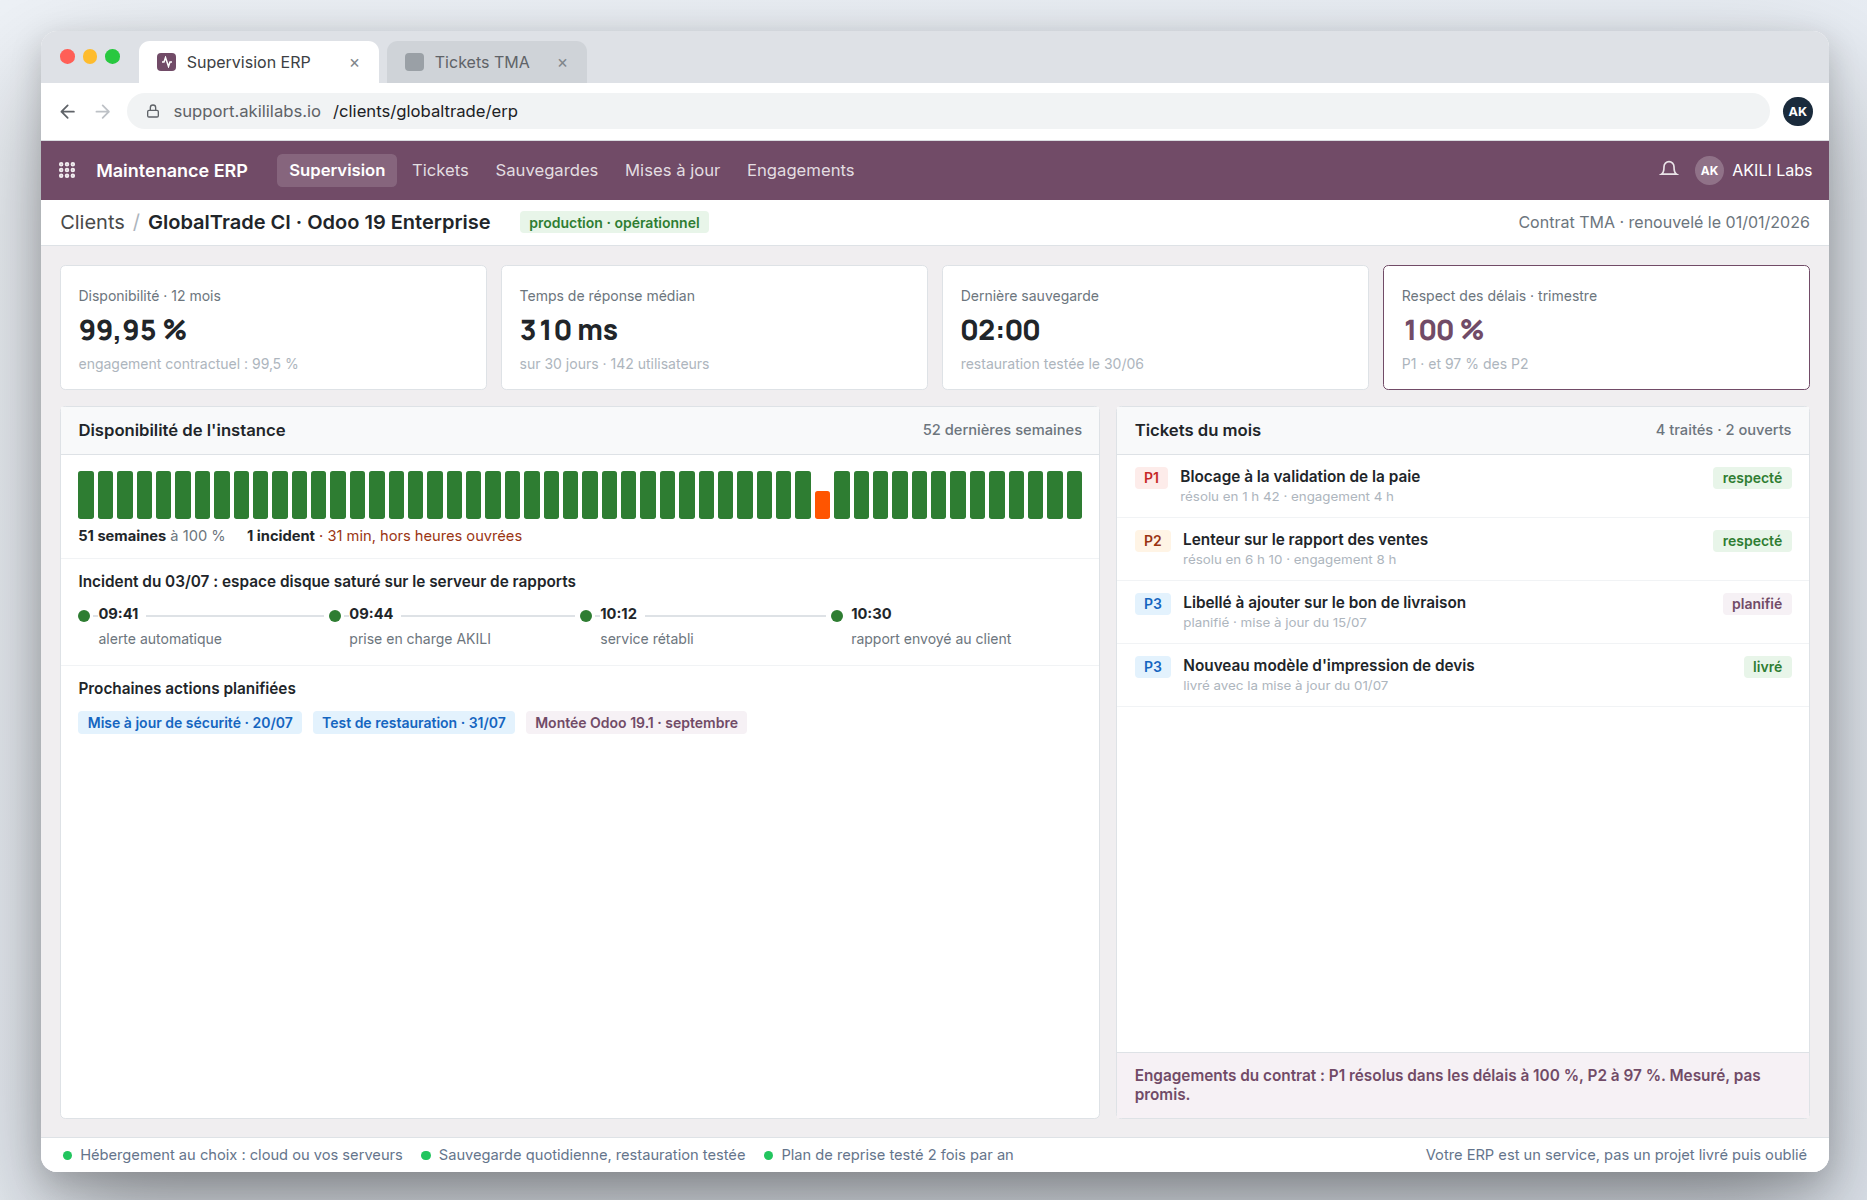
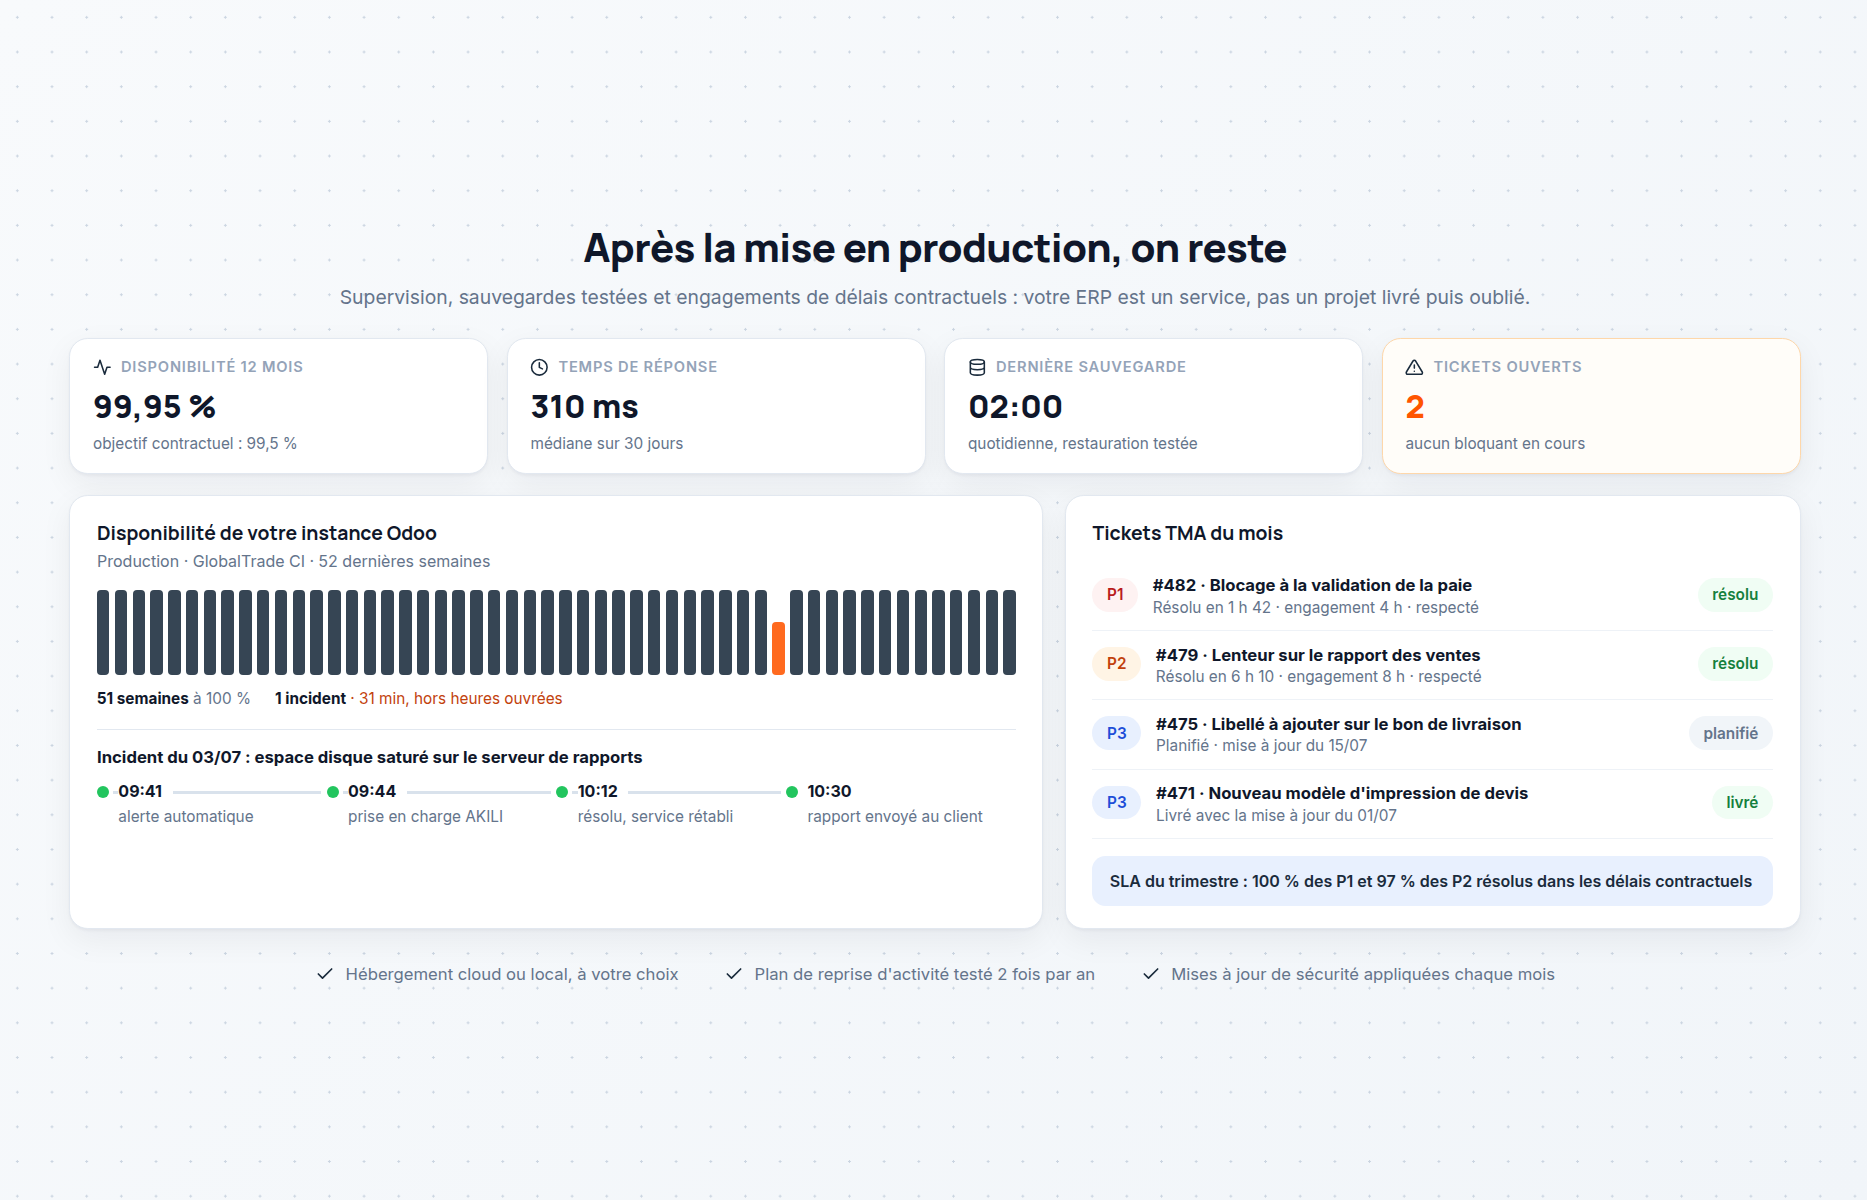
revert(odoo): rétablit l'ancien visuel TMA sur Hébergement & Support
La section « Hébergement & Support » retrouve la maquette de supervision
précédente (disponibilité 99,95 %, incident résolu en 31 min, tickets
TMA P1 à P3), préférée à la capture de l'écran de maintenance.
Texte alt rétabli en conséquence.

diff --git a/src/components/odoo/OdooHostingSupport.tsx b/src/components/odoo/OdooHostingSupport.tsx
@@ -91,7 +91,7 @@ export default function OdooHostingSupport() {
         <FadeUp delay={0.1} className="mt-14 max-w-4xl mx-auto">
           <Image
             src="/odoo-images/odoo-continuite.png"
-            alt="Écran de supervision du contrat de maintenance : disponibilité de 99,95 % sur douze mois contre un engagement de 99,5 %, historique hebdomadaire avec un seul incident résolu en 31 minutes, déroulé de cet incident et tickets P1 à P3 avec le respect des délais contractuels"
+            alt="Supervision de l’instance Odoo : disponibilité de 99,95 % sur 12 mois contre un objectif contractuel de 99,5 %, incident détecté et résolu en 31 minutes, et tickets TMA P1 à P3 traités dans les délais contractuels"
             width={1400}
             height={900}
             loading="lazy"
